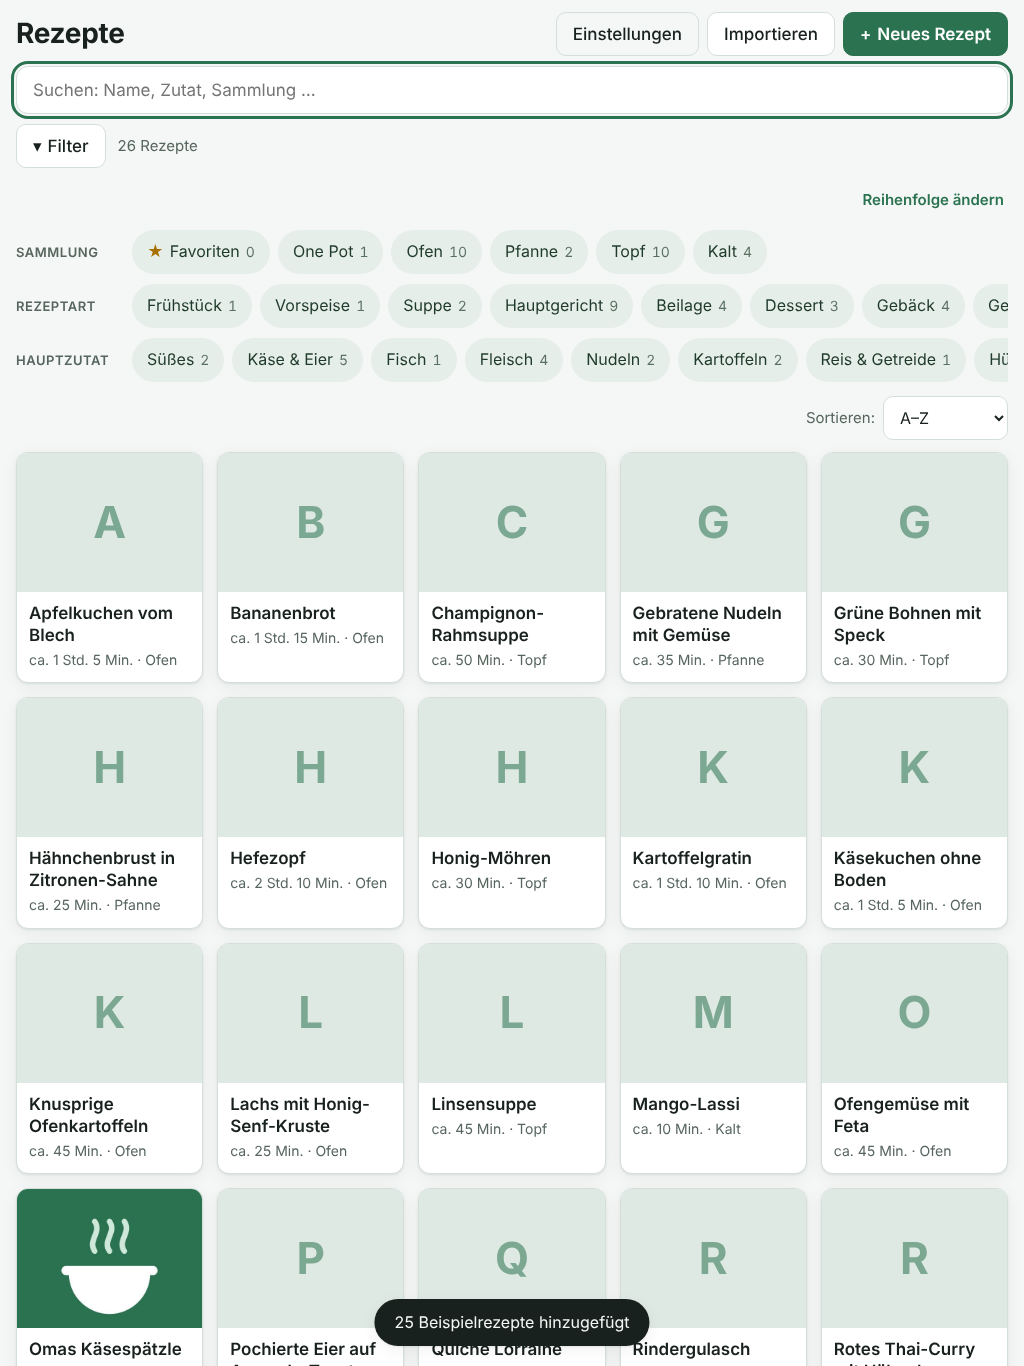
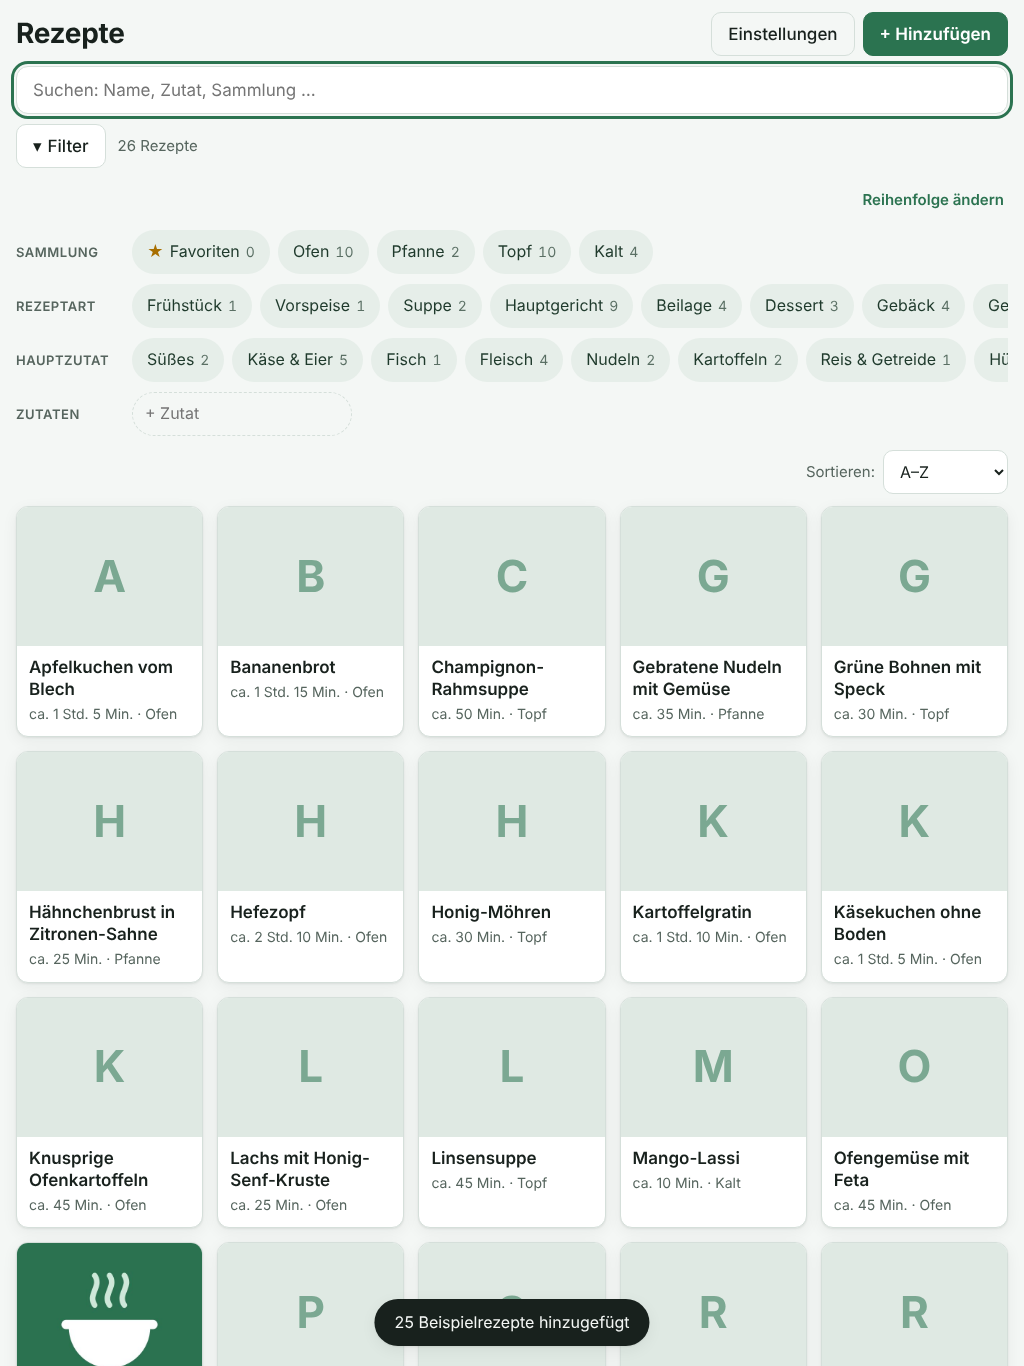
Filterzeile „Zutaten“ (mehrere Zutaten, Rezepte müssen alle enthalten); One Pot ohne Soßen; „null“ im Startassistenten behoben + Test-Wächter
Claude-Session: https://claude.ai/code/session_012ep5u1wpGkj4TJbm2QHrev

diff --git a/js/app.js b/js/app.js
@@ -21,6 +21,7 @@
     favOnly: false,      // nur Favoriten zeigen
     reviewOnly: false,   // nur "Zu prüfen"
     onePotOnly: false,   // nur One-Pot-Gerichte
+    ings: [],            // gewählte Zutaten [{ key, label }] – Rezept muss alle enthalten
     depth: 0,            // wie viele Rezepte nacheinander per Antippen geöffnet wurden (für "Zurück")
     pushing: false       // gerade öffnet die App selbst ein Rezept
   };
@@ -74,7 +75,7 @@
     try {
       const f = {};
       for (const k in state.filters) f[k] = [...state.filters[k]];
-      sessionStorage.setItem('rezepte.ansicht', JSON.stringify({ q: state.query, f, fav: state.favOnly }));
+      sessionStorage.setItem('rezepte.ansicht', JSON.stringify({ q: state.query, f, fav: state.favOnly, ings: state.ings }));
     } catch (e) { /* nicht schlimm */ }
   }
   function restoreView() {
@@ -83,6 +84,7 @@
       if (!v) return;
       state.query = v.q || '';
       state.favOnly = !!v.fav;
+      state.ings = Array.isArray(v.ings) ? v.ings.filter(i => i && i.key && i.label) : [];
       for (const k in state.filters) state.filters[k] = new Set((v.f && v.f[k]) || []);
       // Früher gemerkte einzelne Hauptzutaten ("minuten") passen nicht mehr zu den Gruppen
       const groups = new Set(window.RecipeGroups.ORDER.map(facetKey));
@@ -105,6 +107,10 @@
     if (state.favOnly && skipKey !== 'fav' && !r.favorite) return false;
     if (state.reviewOnly && skipKey !== 'review' && !r.review) return false;
     if (state.onePotOnly && skipKey !== 'onepot' && !window.RecipeCollections.isOnePot(r)) return false;
+    if (state.ings.length && skipKey !== 'ings') {
+      const ks = window.RecipeIngredients.keysOf(r);
+      if (!state.ings.every(i => ks.has(i.key))) return false;
+    }
     for (const f of FACETS) {
       if (f.key === skipKey) continue;
       const sel = state.filters[f.key];
@@ -160,16 +166,54 @@
     renderFilters(scored.map(x => x.r));
     renderGrid(results.map(x => x.r), all.length);
 
-    const active = state.query.trim() || state.favOnly || state.reviewOnly || state.onePotOnly || FACETS.some(f => state.filters[f.key].size);
+    const active = state.query.trim() || state.favOnly || state.reviewOnly || state.onePotOnly || state.ings.length || FACETS.some(f => state.filters[f.key].size);
     $('#count').textContent = results.length === 1 ? '1 Rezept' : results.length + ' Rezepte';
     $('#btnReset').hidden = !active;
     // Anzahl aktiver Filter am Filter-Knopf (wichtig, wenn zugeklappt)
-    const nActive = (state.favOnly ? 1 : 0) + (state.reviewOnly ? 1 : 0) + (state.onePotOnly ? 1 : 0) + FACETS.reduce((n, f) => n + state.filters[f.key].size, 0);
+    const nActive = (state.favOnly ? 1 : 0) + (state.reviewOnly ? 1 : 0) + (state.onePotOnly ? 1 : 0) + state.ings.length + FACETS.reduce((n, f) => n + state.filters[f.key].size, 0);
     $('#filterBadge').textContent = nActive ? String(nActive) : '';
     $('#filterBadge').hidden = !nActive;
     $('#qClear').hidden = !state.query;
     $('#storageWarning').hidden = Store.storageOk;
     rememberView();
+  }
+
+  // Filterzeile "Zutaten": Zutat eintippen, Vorschlag antippen; Rezepte müssen alle gewählten Zutaten enthalten
+  let ingFocus = false;
+  function ingredientRow(searchHits) {
+    const I = window.RecipeIngredients;
+    const input = h('input', { type: 'search', id: 'ingInput', class: 'ing-input', placeholder: '+ Zutat', autocomplete: 'off', autocorrect: 'off', spellcheck: 'false', enterkeyhint: 'done', 'aria-label': 'Zutat hinzufügen' });
+    const suggest = h('div', { class: 'chips ing-suggest', id: 'ingSuggest', 'data-key': 'ings-suggest', hidden: true });
+    const add = item => {
+      if (!state.ings.some(i => i.key === item.key)) state.ings.push({ key: item.key, label: item.label });
+      ingFocus = true; render();
+    };
+    function update() {
+      const q = input.value.trim();
+      suggest.textContent = '';
+      if (!q) { suggest.hidden = true; return; }
+      const qs = I.stem(q), ql = q.toLowerCase();
+      // Vorschläge aus den Rezepten, die zu Suche und übrigen Filtern passen; Zahl = Treffer nach dem Hinzufügen
+      const pool = searchHits.filter(r => passesFilters(r));
+      const list = I.vocabulary(pool)
+        .filter(v => !state.ings.some(i => i.key === v.key))
+        .filter(v => v.key.startsWith(qs) || v.label.toLowerCase().split(/[\s-]/).some(w => w.startsWith(ql)) || v.label.toLowerCase().includes(ql))
+        .sort((a, b) => (b.key.startsWith(qs) - a.key.startsWith(qs)) || b.count - a.count || a.label.localeCompare(b.label, 'de'))
+        .slice(0, 8);
+      if (!list.length) { suggest.append(h('span', { class: 'hint', text: 'Keine passende Zutat in deinen Rezepten.' })); suggest.hidden = false; return; }
+      list.forEach(v => suggest.append(h('button', { type: 'button', class: 'chip', onclick: () => add(v) }, v.label, h('span', { class: 'n', text: String(v.count) }))));
+      suggest.hidden = false;
+    }
+    input.addEventListener('input', update);
+    input.addEventListener('keydown', e => {
+      if (e.key === 'Enter') { e.preventDefault(); const first = suggest.querySelector('button.chip'); if (first) first.click(); }
+    });
+    const chips = h('div', { class: 'chips', 'data-key': 'ings', role: 'group', 'aria-label': 'Zutaten' },
+      state.ings.map(i => h('button', { type: 'button', class: 'chip', 'aria-pressed': 'true', 'aria-label': i.label + ' entfernen',
+        onclick: () => { state.ings = state.ings.filter(x => x.key !== i.key); render(); } }, i.label, h('span', { class: 'x', 'aria-hidden': 'true', text: '×' }))),
+      input);
+    if (ingFocus) { ingFocus = false; setTimeout(() => { const el = document.getElementById('ingInput'); if (el) el.focus(); }, 0); }
+    return h('div', { class: 'facet facet-ings', 'data-key': 'ings' }, h('span', { class: 'facet-label', text: 'Zutaten' }), chips, suggest);
   }
 
   function renderFilters(searchHits) {
@@ -255,6 +299,7 @@
       box.append(h('div', { class: 'facet' + (arranging ? ' arranging' : ''), 'data-key': f.key }, label, chips));
       if (scrollPos[f.key]) chips.scrollLeft = scrollPos[f.key];
     }
+    box.append(ingredientRow(searchHits));
     box.prepend(h('div', { class: 'facet-tools' }, h('button', {
       type: 'button', class: 'btn-link', id: 'btnArrange', onclick: () => { arranging = !arranging; render(); }
     }, arranging ? 'Fertig' : 'Reihenfolge ändern')));
@@ -281,9 +326,9 @@
       render(); toast('Ausgeblendet – unter Einstellungen wieder einblendbar');
     };
     const toReview = () => { resetAll(); state.reviewOnly = true; setFiltersOpen(true); render(); };
-    box.append(
+    box.append(...[
       h('h2', { id: 'startTitle', text: own ? 'Rezepte zusammentragen' : 'Willkommen! Woher kommen deine Rezepte?' }),
-      h('p', { class: 'hint', text: 'Hol deine Rezepte von überall an einen Ort. Danach kommen neue einfach dazu – über „Importieren“ oder das Teilen-Menü.' }),
+      h('p', { class: 'hint', text: 'Hol deine Rezepte von überall an einen Ort. Danach kommen neue einfach dazu – über „+ Hinzufügen“ oder das Teilen-Menü.' }),
       own ? h('p', { class: 'start-progress', id: 'startProgress' },
         h('b', { text: own === 1 ? '1 Rezept gesammelt' : own + ' Rezepte gesammelt' }),
         review ? ', ' + review + ' noch zu prüfen. ' : '.',
@@ -299,7 +344,8 @@
         Store.exampleCount() ? null : h('button', { type: 'button', class: 'btn', onclick: () => {
           try { const n = Store.loadExamples(); toast(n + ' Beispielrezepte geladen'); } catch (e) { toast(e.message); }
         } }, 'Beispielrezepte laden'),
-        h('button', { type: 'button', class: 'btn', id: 'startDone', onclick: dismiss }, own ? 'Fertig – ausblenden' : 'Ausblenden')));
+        h('button', { type: 'button', class: 'btn', id: 'startDone', onclick: dismiss }, own ? 'Fertig – ausblenden' : 'Ausblenden'))
+    ].filter(Boolean));
     return true;
   }
 
@@ -411,6 +457,7 @@
     state.favOnly = false;
     state.reviewOnly = false;
     state.onePotOnly = false;
+    state.ings = [];
     $('#q').value = '';
     for (const k in state.filters) state.filters[k].clear();
     render();

diff --git a/tests/app.test.js b/tests/app.test.js
@@ -34,9 +34,12 @@ const OUT = process.argv[2] || '.';
   const noCloud = c => c.route('**/js/config.js', r => r.fulfill({ contentType: 'text/javascript', body: "window.APP_CONFIG = { supabaseUrl: '', supabaseKey: '' };" }));
   await noCloud(ctx);
   const p = await ctx.newPage();
-  const errs = []; p.on('pageerror', e => errs.push(e.message)); p.on('console', m => m.type() === 'error' && errs.push(m.text()));
+  const errs = []; p.on('pageerror', e => errs.push(e.message));
+  global.__nullWatch = [];
+  const origClick = p.click.bind(p);
+  p.click = async (...a) => { const r = await origClick(...a); await p.waitForTimeout(30); try { const t = await p.evaluate(() => (document.body.innerText.match(/(^|\s)null(\s|$)/m) || [null])[0] ? document.body.innerText.slice(Math.max(0, document.body.innerText.search(/(^|\s)null(\s|$)/m) - 40), document.body.innerText.search(/(^|\s)null(\s|$)/m) + 10) : ''); if (t) global.__nullWatch.push(String(a[0]) + ': ' + t.replace(/\s+/g, ' ')); } catch (e) { /* Seite wechselt */ } return r; }; p.on('console', m => m.type() === 'error' && errs.push(m.text()));
   await p.goto(URL);
-  assert(await p.isVisible('#start h2:has-text("Woher kommen deine Rezepte?")') && await p.locator('#start .import-tile').count() === 6, 'Leere App: Startassistent mit allen Wegen');
+  assert(!(await p.textContent('#start')).includes('null') && await p.isVisible('#start h2:has-text("Woher kommen deine Rezepte?")') && await p.locator('#start .import-tile').count() === 6, 'Leere App: Startassistent mit allen Wegen');
   await p.click('#startShare');
   assert(await p.isVisible('dialog h2:has-text("Teilen einrichten")') && await p.isVisible('dialog li:has-text("Inhalte von URL abrufen")'), 'Startassistent: Anleitung fürs Teilen-Menü');
   await p.click('dialog .icon-btn[aria-label=Schließen]'); await p.waitForTimeout(200);
@@ -122,9 +125,37 @@ const OUT = process.argv[2] || '.';
   await p.click('#chipOnePot');
   const opTitles = (await p.$$eval('.tile-title', e => e.map(x => x.textContent))).sort().join(', ');
   const opCol = await p.evaluate(id => Store.recipe(id).collectionId, op[0]);
-  assert(opTitles.includes('One-Pot-Pasta') && opTitles.includes('Ofengemüse vom Blech') && !opTitles.includes('Brownies') && !opTitles.includes('Apfelkuchen vom Blech') && opCol === 'col-topf', 'Chip „One Pot“ zeigt Eintopf-/Blechgerichte, Rezept bleibt zusätzlich in „Topf“: ' + opTitles);
+  assert(opTitles.includes('One-Pot-Pasta') && opTitles.includes('Ofengemüse vom Blech') && !opTitles.includes('Brownies') && !opTitles.includes('Apfelkuchen vom Blech') && !opTitles.includes('Vanillesoße') && opCol === 'col-topf', 'Chip „One Pot“ zeigt Eintopf-/Blechgerichte, Rezept bleibt zusätzlich in „Topf“: ' + opTitles);
   await p.click('#chipOnePot');
   await p.evaluate(ids => ids.forEach(id => Store.deleteRecipe(id)), op);
+  // Zutaten-Filter: mehrere Zutaten, Rezepte müssen alle enthalten
+  {
+    const ids = await p.evaluate(() => [
+      Store.saveRecipe({ title: 'Testpfanne A', ingredients: ['500 g Rinderhackfleisch', '2 rote Paprikaschoten', '1 Zwiebel'], steps: ['Braten.'] }).id,
+      Store.saveRecipe({ title: 'Testpfanne B', ingredients: ['300 g Hackfleisch', '1 TL Paprikapulver'], steps: ['Braten.'] }).id,
+      Store.saveRecipe({ title: 'Testsalat C', ingredients: ['1 Paprika (gelb)', '1 Gurke'], steps: ['Schneiden.'] }).id]);
+    await p.fill('#ingInput', 'hack');
+    await p.waitForSelector('#ingSuggest .chip');
+    const sug = await p.$$eval('#ingSuggest .chip', e => e.map(x => x.textContent));
+    assert(sug[0].startsWith('Hackfleisch'), 'Zutat eintippen: Vorschläge aus den Rezepten (' + sug.join(', ') + ')');
+    await p.click('#ingSuggest .chip:has-text("Hackfleisch")');
+    await p.waitForTimeout(150);
+    let t = (await p.$$eval('.tile-title', e => e.map(x => x.textContent))).filter(x => /^Test/.test(x)).sort().join(', ');
+    assert(t === 'Testpfanne A, Testpfanne B', 'Filter Hackfleisch (auch Rinderhackfleisch): ' + t);
+    await p.fill('#ingInput', 'papr');
+    await p.waitForSelector('#ingSuggest .chip');
+    await p.evaluate(() => [...document.querySelectorAll('#ingSuggest .chip')].find(b => /^Paprika\d/.test(b.textContent)).click());
+    await p.waitForTimeout(150);
+    t = (await p.$$eval('.tile-title', e => e.map(x => x.textContent))).filter(x => /^Test/.test(x)).sort().join(', ');
+    assert(t === 'Testpfanne A', 'Hackfleisch + Paprika: nur Rezepte mit beidem, „Paprikapulver“ zählt nicht: ' + t);
+    assert((await p.textContent('#filterBadge')) === '2', 'Filter-Zähler zählt die Zutaten mit');
+    await p.click('.chips[data-key=ings] .chip:has-text("Hackfleisch")');
+    await p.waitForTimeout(150);
+    t = (await p.$$eval('.tile-title', e => e.map(x => x.textContent))).filter(x => /^Test/.test(x)).sort().join(', ');
+    assert(t === 'Testpfanne A, Testsalat C', 'Zutat antippen entfernt sie wieder: ' + t);
+    await p.click('#btnReset');
+    await p.evaluate(ids => ids.forEach(id => Store.deleteRecipe(id)), ids);
+  }
   // Hauptzutat als feste Gruppen
   const groupChips = await p.$$eval('.chips[data-key=mainIngredient] .chip', e => e.map(x => x.firstChild.textContent.trim()));
   const allowed = await p.evaluate(() => window.RecipeGroups.ORDER);
@@ -134,7 +165,7 @@ const OUT = process.argv[2] || '.';
   assert(meat.length > 0 && await p.evaluate(t => t.every(x => window.RecipeGroups.groupOf(Store.recipes().find(r => r.title === x).mainIngredient) === 'Fleisch'), meat), 'Chip „Fleisch“ zeigt nur Fleischgerichte (' + meat.length + ')');
   await p.click('.chips[data-key=mainIngredient] .chip:has-text("Fleisch")');
   // Filterzeilen anordnen
-  const rowOrder = () => p.$$eval('.facet', e => e.map(x => x.dataset.key).join());
+  const rowOrder = () => p.$$eval('.facet:not(.facet-ings)', e => e.map(x => x.dataset.key).join());
   assert(await rowOrder() === 'collectionId,course,mainIngredient', 'Standard-Reihenfolge der Filterzeilen (ohne eigene Zeile „Zubereitung“)');
   await p.click('#btnArrange');
   assert(await p.isDisabled('[aria-label="Sammlung nach oben"]'), 'Oberste Zeile kann nicht weiter hoch');
@@ -491,6 +522,8 @@ const OUT = process.argv[2] || '.';
   await pp.fill('#q', '');
   await pp.locator('.tile').first().click(); await pp.waitForTimeout(200);
   await pp.screenshot({ path: OUT + '/phone-detail.png' });
+  if (!global.__nullWatch) global.__nullWatch = [];
+  assert(global.__nullWatch.length === 0, 'Nirgends „null“ auf dem Bildschirm ' + global.__nullWatch.join(' | '));
   assert(errs.length === 0, 'keine Skriptfehler ' + errs.join('; '));
   await b.close();
 })().catch(e => { console.error(e.message); process.exit(1); });

diff --git a/js/ingredients.js b/js/ingredients.js
@@ -1,0 +1,90 @@
+/* Zutaten-Filter: aus jeder Zutatenzeile ein Begriff ("2 rote Paprikaschoten, gewürfelt" -> Paprika).
+   Varianten werden zusammengefasst; Gewürze/Pulver bleiben eigene Begriffe ("Paprikapulver" ≠ "Paprika"). */
+(function () {
+  'use strict';
+  const Sc = () => window.RecipeScale;
+  const SUFFIX = /(schoten?|zehen?|stangen?|knollen?|würfel|scheiben|stücke?|streifen|filets?|blätter|röschen)$/i;
+  const SKIP = /^(etwas|prise|salz|pfeffer|wasser|nach|optional|frische?r?|tk|bio)$/i;
+  const ALIAS = [
+    [/spaghetti|penne|fusilli|farfalle|rigatoni|tagliatelle|linguine|makkaroni|maccaroni|bandnudel|spätzle|tortellini|orzo|lasagneplatten/i, 'nudel'],
+    [/tomate/i, 'tomat'],
+    [/hack/i, 'hackfleisch'],
+    [/hähnchen|hühnchen|hühnerbrust|chicken/i, 'hahnchen'],
+    [/kartoffel/i, 'kartoffel']
+  ];
+  const ALIAS_LABEL = { nudel: 'Nudeln', tomat: 'Tomaten', hackfleisch: 'Hackfleisch', hahnchen: 'Hähnchen', kartoffel: 'Kartoffeln' };
+  const deUml = s => s.replace(/ä/g, 'a').replace(/ö/g, 'o').replace(/ü/g, 'u').replace(/ß/g, 'ss');
+
+  // Grundform für den Vergleich: klein, ohne Umlaute, ohne Mehrzahl-Endung
+  function stem(word) {
+    let w = deUml(String(word).toLowerCase());
+    if (w === 'eier' || w === 'ei') return 'ei';
+    if (w.length > 4) w = w.replace(/(innen|nen|en|n|e|s)$/, '');
+    return w;
+  }
+
+  const cache = new Map();
+  // Zeile -> { key, label } oder null
+  function keyOf(line) {
+    if (cache.has(line)) return cache.get(line);
+    let res = null;
+    try {
+      const p = Sc().parseIngredient(Sc().normalizeIngredient(line));
+      const name = String(p.name || line).replace(/\([^)]*\)/g, ' ').split(/[,(]|\s(?:oder|und|für|zum|zur|nach)\s/)[0].trim();
+      const words = name.split(/\s+/).filter(w => /^\p{Lu}/u.test(w) && !SKIP.test(w));
+      let label = words[words.length - 1] || '';
+      if (label.length > 5 && SUFFIX.test(label)) {
+        const base = label.replace(SUFFIX, '').replace(/-$/, '');
+        if (base.length >= 3) label = base.charAt(0).toUpperCase() + base.slice(1);
+      }
+      label = label.replace(/[^\p{L}-]/gu, '');
+      if (label.length >= 2) {
+        res = { key: stem(label), label, also: [] };
+        // Oberbegriffe: "Spaghetti" auch unter Nudeln, "Kirschtomaten" unter Tomaten, "Rinderhack" unter Hackfleisch
+        for (const [re, k] of ALIAS) if (re.test(label) && k !== res.key) res.also.push(k);
+      }
+    } catch (e) { res = null; }
+    cache.set(line, res);
+    return res;
+  }
+
+  const recipeCache = new Map();
+  // Begriffe eines Rezepts (Set von Schlüsseln)
+  function keysOf(r) {
+    const k = r.id + '|' + r.updatedAt;
+    const c = recipeCache.get(r.id);
+    if (c && c.k === k) return c.keys;
+    const keys = new Set();
+    for (const x of (r.ingredients || []).map(keyOf).filter(Boolean)) { keys.add(x.key); x.also.forEach(k => keys.add(k)); }
+    recipeCache.set(r.id, { k, keys });
+    return keys;
+  }
+
+  // Vorschläge für die Eingabe: alle Begriffe aus den Rezepten mit Häufigkeit und schönster Schreibweise
+  function vocabulary(recipes) {
+    const map = new Map();
+    for (const r of recipes) {
+      const seen = new Set();
+      for (const line of r.ingredients || []) {
+        const x = keyOf(line);
+        if (!x || seen.has(x.key)) continue;
+        seen.add(x.key);
+        const e = map.get(x.key) || { key: x.key, labels: new Map(), count: 0 };
+        e.count++;
+        e.labels.set(x.label, (e.labels.get(x.label) || 0) + 1);
+        map.set(x.key, e);
+        for (const k of x.also) {
+          if (seen.has(k)) continue;
+          seen.add(k);
+          const a = map.get(k) || { key: k, labels: new Map(), count: 0 };
+          a.count++;
+          if (!a.labels.size) a.labels.set(ALIAS_LABEL[k] || k, 0);
+          map.set(k, a);
+        }
+      }
+    }
+    return [...map.values()].map(e => ({ key: e.key, count: e.count, label: [...e.labels.entries()].sort((a, b) => b[1] - a[1])[0][0] }));
+  }
+
+  window.RecipeIngredients = { keyOf, keysOf, vocabulary, stem };
+})();

diff --git a/tests/import-e2e.test.js b/tests/import-e2e.test.js
@@ -68,6 +68,9 @@ const TIKTOK = { 'https://www.tiktok.com/@koch/video/1': 'One-Pot-Pasta!\nZutate
   });
   const p = await ctx.newPage();
   const errs = []; p.on('pageerror', e => errs.push(e.message));
+  global.__nullWatch = [];
+  const origClick = p.click.bind(p);
+  p.click = async (...a) => { const r = await origClick(...a); await p.waitForTimeout(30); try { const t = await p.evaluate(() => (document.body.innerText.match(/(^|\s)null(\s|$)/m) || [null])[0] ? document.body.innerText.slice(Math.max(0, document.body.innerText.search(/(^|\s)null(\s|$)/m) - 40), document.body.innerText.search(/(^|\s)null(\s|$)/m) + 10) : ''); if (t) global.__nullWatch.push(String(a[0]) + ': ' + t.replace(/\s+/g, ' ')); } catch (e) { /* Seite wechselt */ } return r; };
   await p.goto(URL);
   await p.click('button:has-text("Beispielrezepte laden")'); await p.waitForTimeout(300);
 
@@ -318,6 +321,8 @@ const TIKTOK = { 'https://www.tiktok.com/@koch/video/1': 'One-Pot-Pasta!\nZutate
 
   // Kopfzeile auf dem Handy: keine seitliche Verschiebung
   assert(await p.evaluate(() => document.documentElement.scrollWidth) <= 390, 'Kopfzeile passt aufs Handy');
+  if (!global.__nullWatch) global.__nullWatch = [];
+  assert(global.__nullWatch.length === 0, 'Nirgends „null“ auf dem Bildschirm ' + global.__nullWatch.join(' | '));
   assert(errs.length === 0, 'Keine Skriptfehler ' + errs.join('; '));
   await b.close();
 })().catch(e => { console.error(e.message); process.exit(1); });

diff --git a/js/collections.js b/js/collections.js
@@ -42,8 +42,8 @@
   // "One Pot": alles in einem Topf, einer Pfanne oder auf einem Blech (zusätzlich zur normalen Sammlung)
   const ONE_POT = /one[\s-]?pot|one[\s-]?pan|sheet[\s-]?pan|eintopf|ein[\s-]topf|(?:alles|alle zutaten)\s+(?:zusammen\s+)?(?:in|im)\s+(?:einem|einen|einer|den|die|dem)\s+(?:großen\s+)?(?:topf|pfanne|bräter|wok|kochtopf)|in\s+nur\s+einem\s+topf|aus\s+(?:einem|einer)\s+(?:topf|pfanne)|vom\s+blech|blechgericht|ofengericht vom blech/i;
   // Kuchen & Co. sind nie "One Pot", auch "vom Blech"
-  const NOT_ONE_POT = /kuchen|torte|brownie|plätzchen|kekse|cookies|muffins|schnitten|waffeln|brot\b|brötchen|pizza/i;
-  const isOnePot = r => !/^(Gebäck|Dessert|Snack|Getränk)$/.test(r.course || '') && !NOT_ONE_POT.test(r.title || '')
+  const NOT_ONE_POT = /soße|sauce|dip\b|pudding|kuchen|torte|brownie|plätzchen|kekse|cookies|muffins|schnitten|waffeln|brot\b|brötchen|pizza/i;
+  const isOnePot = r => !/^(Gebäck|Dessert|Snack|Getränk|Sauce & Dip|Beilage)$/.test(r.course || '') && !NOT_ONE_POT.test(r.title || '')
     && ONE_POT.test([r.title || '', (r.steps || []).join(' '), r.notes || ''].join(' '));
   window.RecipeCollections = { isOnePot, fromMethod, forRecipe, list, order, isAuto, FIXED_STAMP };
 })();

diff --git a/index.html b/index.html
@@ -5,7 +5,7 @@
 <meta name="viewport" content="width=device-width, initial-scale=1, viewport-fit=cover">
 <title>Meine Rezepte</title>
 <meta name="theme-color" content="#2f7a55">
-<meta name="app-version" content="2026-11-20T11:38:13">
+<meta name="app-version" content="2026-11-20T11:53:33">
 <meta name="apple-mobile-web-app-capable" content="yes">
 <meta name="mobile-web-app-capable" content="yes">
 <meta name="apple-mobile-web-app-title" content="Rezepte">
@@ -98,6 +98,7 @@
 <script src="js/importer.js"></script>
 <script src="js/ocr.js"></script>
 <script src="js/maingroups.js"></script>
+<script src="js/ingredients.js"></script>
 <script src="js/collections.js"></script>
 <script src="js/store.js"></script>
 <script src="js/app.js"></script>

diff --git a/css/app.css b/css/app.css
@@ -472,3 +472,9 @@ body:has(#inboxBanner:not(dialog #inboxBanner)) .to-top { bottom: calc(96px + en
 @media (min-width: 700px) { .start-tiles { grid-template-columns: repeat(3, minmax(0, 1fr)); } }
 .start .import-tile { min-height: 96px; }
 .btn-small { min-height: var(--touch); padding: 0 12px; font-size: 15px; }
+
+/* Zutaten-Filter */
+.facet-ings .chips { flex-wrap: wrap; overflow: visible; }
+.ing-input { min-height: var(--touch); min-width: 120px; flex: 1 1 140px; max-width: 220px; padding: 6px 12px; border-radius: 999px; border: 1px dashed var(--line); background: var(--bg); font-size: 16px; color: var(--fg); }
+.ing-suggest { flex-wrap: wrap; overflow: visible; padding-top: 2px; }
+.chip .x { margin-left: 4px; font-weight: 600; }
